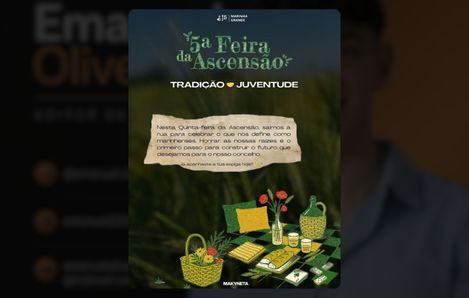
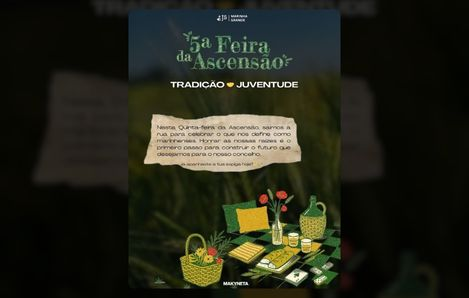
Change of contact schedule; Add design projects; Update header

diff --git a/assets/scripts/design.js b/assets/scripts/design.js
@@ -1,5 +1,12 @@
     /* ── Data ── */
     const PROJECTS = [
+      { id:12, title:"Emanuel Oliveira _ Who I Am?",
+        category:"social", tags:["Illustrator","Photoshop","Canva"],
+        desc:"",
+        image:"/assets/images/projects/design/thumb/emanuel-oliveira-who-i-am-post.jpg",
+        preview:"/assets/images/projects/design/preview/emanuel-oliveira-who-i-am-post.jpg",
+        link:"" },
+
       { id:12, title:"António Pedro",
         category:"social", tags:["Illustrator","Photoshop","Canva"],
         desc:"",

diff --git a/assets/header/main.html b/assets/header/main.html
@@ -16,8 +16,8 @@
             </button>
             <div class="dropdown-menu shadow-2xl">
                 <a href="/develop"><i class="fa-solid fa-code mr-2 opacity-70"></i> Development</a>
-                <a href="/photo"><i class="fa-solid fa-camera mr-2 opacity-70"></i> Photography</a>
                 <a href="/design"><i class="fa-solid fa-paint-brush mr-2 opacity-70"></i> Design</a>
+                <a href="/photo"><i class="fa-solid fa-camera mr-2 opacity-70"></i> Photography</a>
                 <a href="/#testimonials"><i class="fa-solid fa-star mr-2 opacity-70"></i> Feedback</a>
             </div>
         </div>
@@ -40,7 +40,7 @@
 
         <div class="dropdown-wrapper h-full dropdown-left">
             <button class="nav-btn">
-                <span><i class="fa-solid fa-globe"></i> English</span>
+                <span><i class="fa-solid fa-globe"></i> EN</span>
                 <i class="fa-solid fa-chevron-down text-[10px] opacity-50 ml-1"></i>
             </button>
             <div class="dropdown-menu shadow-2xl">
@@ -73,8 +73,8 @@
                 <span class="text-[10px] text-[#31d094] tracking-widest font-bold uppercase block mb-4">Portfolio</span>
                 <div class="pl-4 space-y-3 border-l border-black/10">
                     <a href="/develop" class="mobile-nav-link text-base block opacity-80">Development</a>
-                    <a href="/photo" class="mobile-nav-link text-base block opacity-80">Photography</a>
                     <a href="/design" class="mobile-nav-link text-base block opacity-80">Design</a>
+                    <a href="/photo" class="mobile-nav-link text-base block opacity-80">Photography</a>
                     <a href="/#testimonials" class="mobile-nav-link text-base block opacity-80">Feedback</a>
                 </div>
             </li>

diff --git a/assets/header/portuguese.html b/assets/header/portuguese.html
@@ -16,8 +16,8 @@
             </button>
             <div class="dropdown-menu shadow-2xl">
                 <a href="/pt/develop"><i class="fa-solid fa-code mr-2 opacity-70"></i> Programação</a>
-                <a href="/pt/photo"><i class="fa-solid fa-camera mr-2 opacity-70"></i> Fotografia</a>
                 <a href="/pt/design"><i class="fa-solid fa-paint-brush mr-2 opacity-70"></i> Design</a>
+                <a href="/pt/photo"><i class="fa-solid fa-camera mr-2 opacity-70"></i> Fotografia</a>
                 <a href="/pt/#testimonials"><i class="fa-solid fa-star mr-2 opacity-70"></i> Feedback</a>
             </div>
         </div>
@@ -40,7 +40,7 @@
 
         <div class="dropdown-wrapper h-full dropdown-left">
             <button class="nav-btn">
-                <span><i class="fa-solid fa-globe"></i> Português</span>
+                <span><i class="fa-solid fa-globe"></i> PT</span>
                 <i class="fa-solid fa-chevron-down text-[10px] opacity-50 ml-1"></i>
             </button>
             <div class="dropdown-menu shadow-2xl">
@@ -73,8 +73,8 @@
                 <span class="text-[10px] text-[#31d094] tracking-widest font-bold uppercase block mb-4">Portfolio</span>
                 <div class="pl-4 space-y-3 border-l border-black/10">
                     <a href="/pt/develop" class="mobile-nav-link text-base block opacity-80">Development</a>
-                    <a href="/pt/photo" class="mobile-nav-link text-base block opacity-80">Photography</a>
                     <a href="/pt/design" class="mobile-nav-link text-base block opacity-80">Design</a>
+                    <a href="/pt/photo" class="mobile-nav-link text-base block opacity-80">Photography</a>
                     <a href="/pt/#testimonials" class="mobile-nav-link text-base block opacity-80">Feedback</a>
                 </div>
             </li>

diff --git a/contact.html b/contact.html
@@ -142,7 +142,7 @@
             <i class="fa-solid fa-clock ch-ico"></i>
             <div class="ch-body">
               <span class="ch-lbl">Availability</span>
-              <span class="ch-val">Mon – Sat · 9:00 – 21:00</span>
+              <span class="ch-val">Mon – Sat · 24h</span>
             </div>
           </div>
         </div>

diff --git a/pt/contacto.html b/pt/contacto.html
@@ -144,7 +144,7 @@
             <i class="fa-solid fa-clock ch-ico"></i>
             <div class="ch-body">
               <span class="ch-lbl">Disponibilidade</span>
-              <span class="ch-val">Seg – Sáb · 9:00 – 21:00</span>
+              <span class="ch-val">Seg – Sáb · 24h</span>
             </div>
           </div>
         </div>